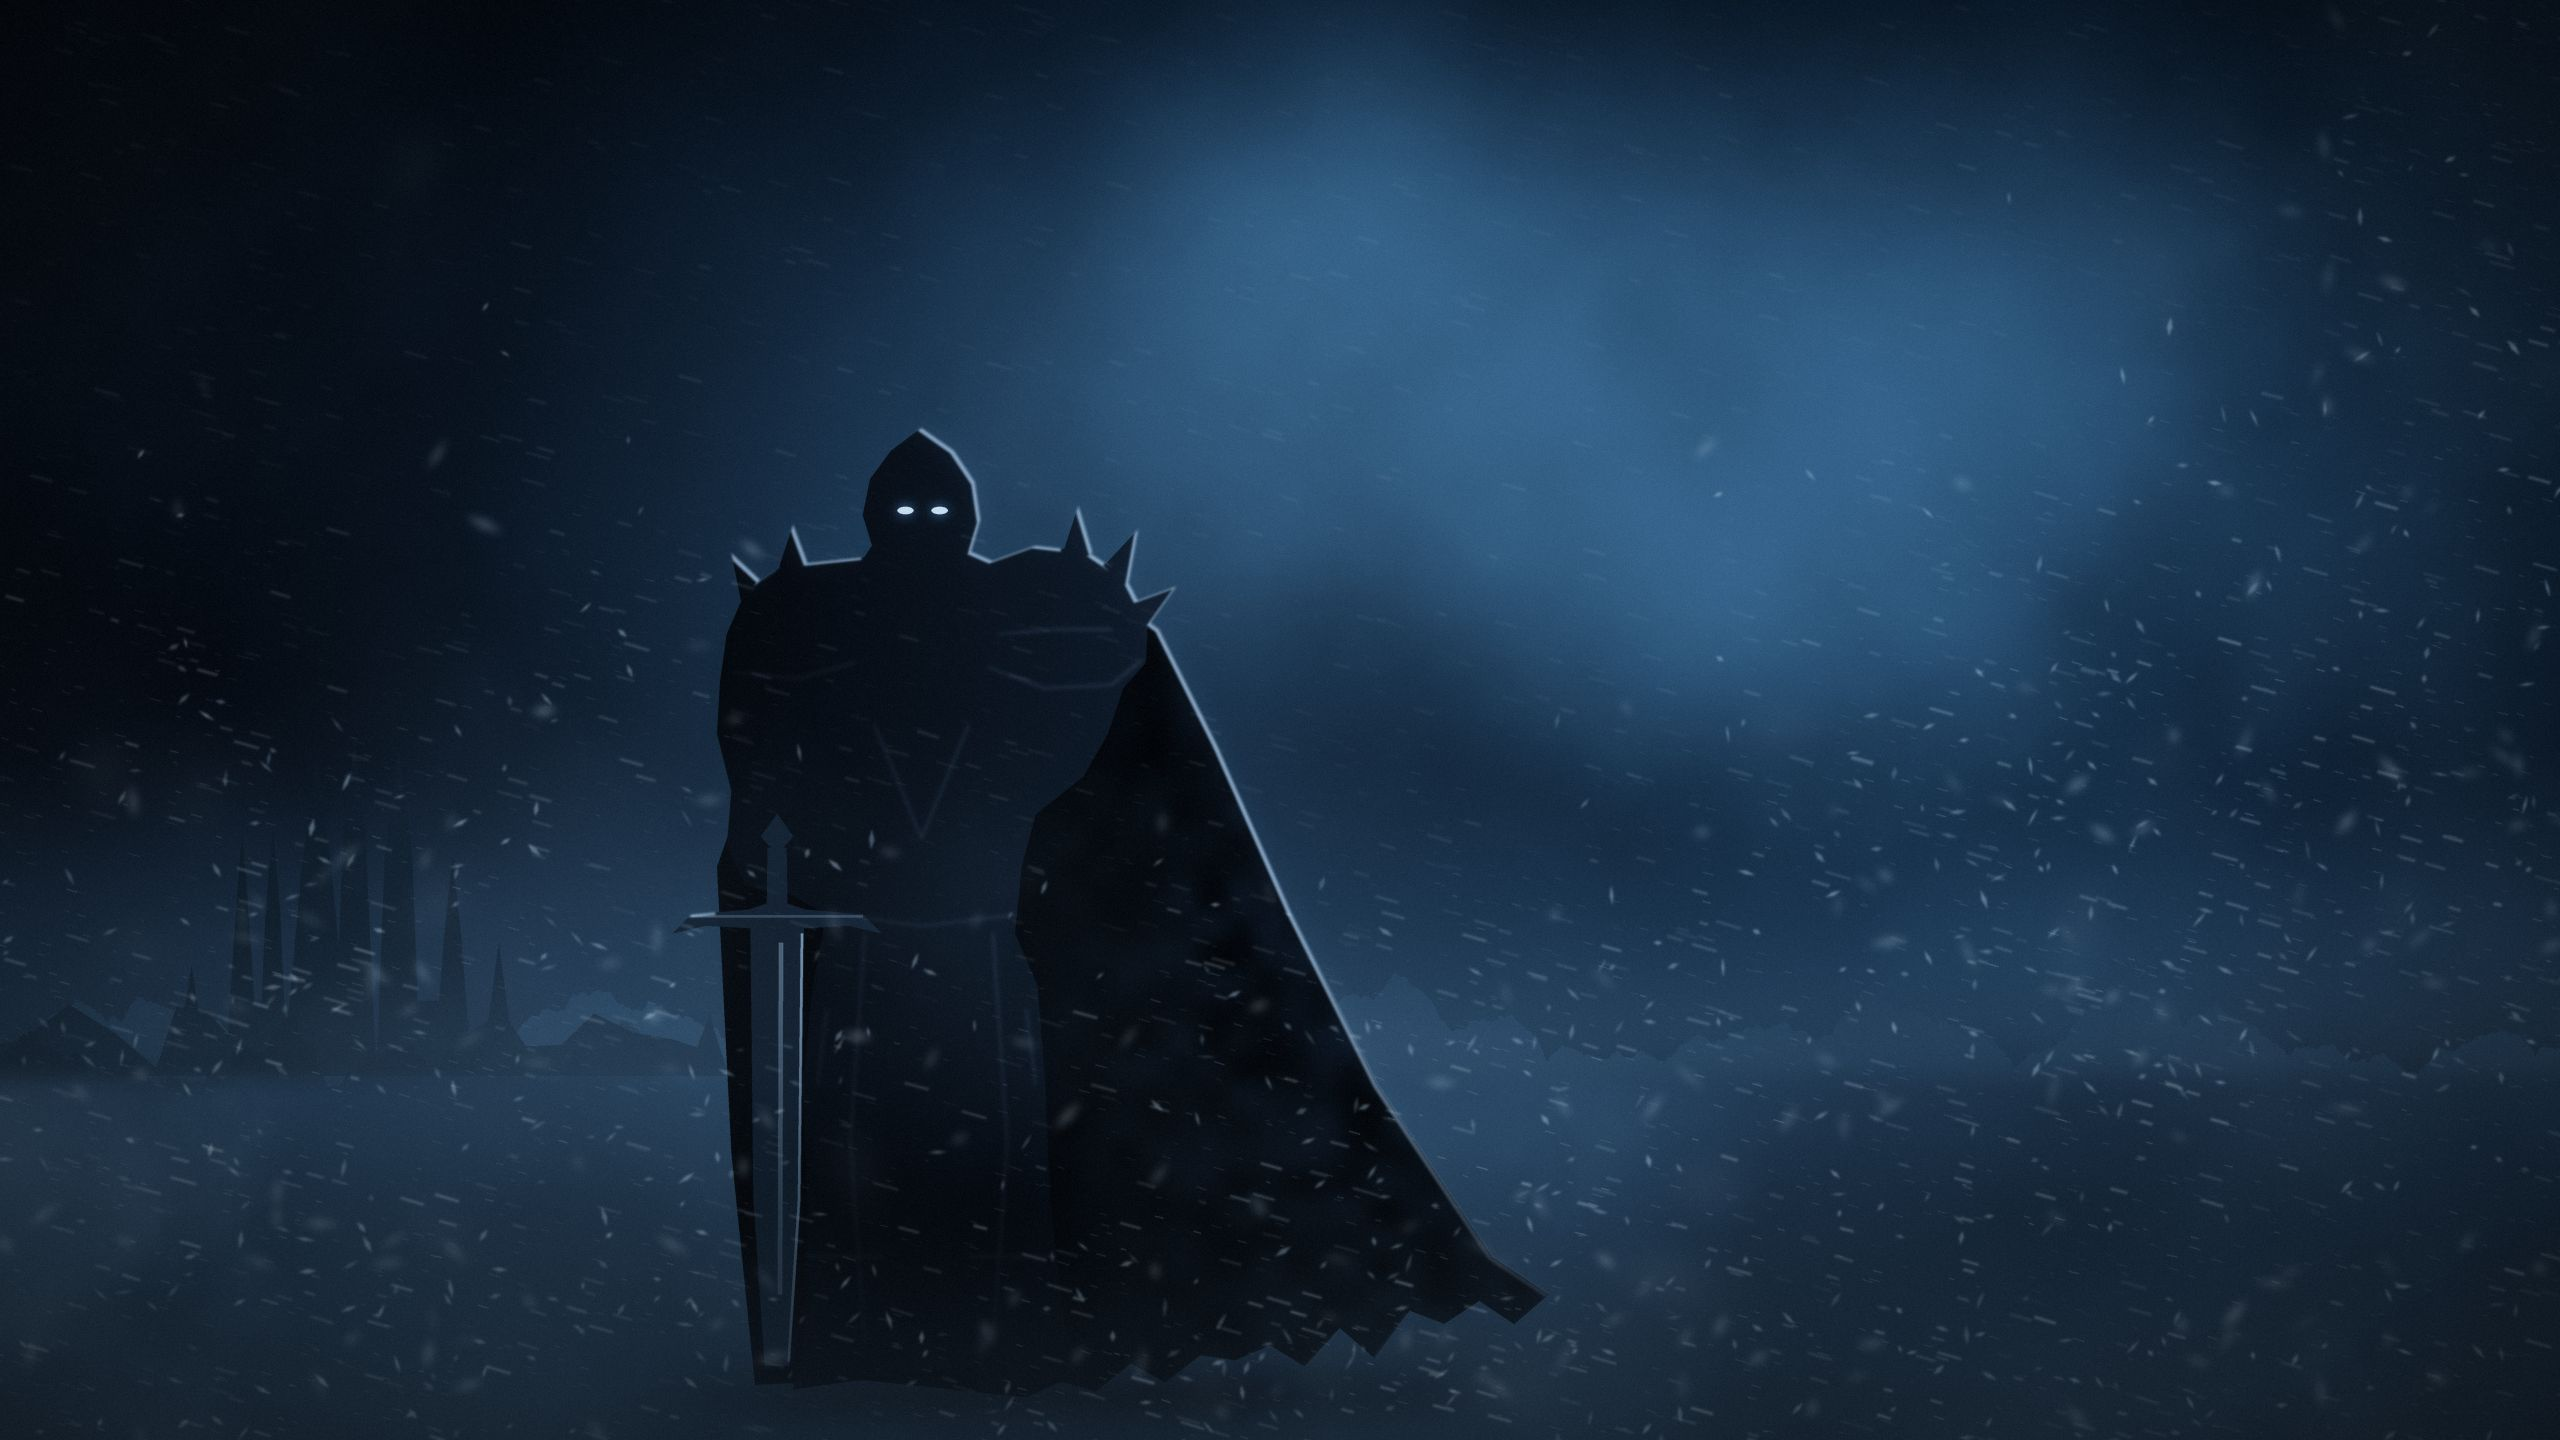
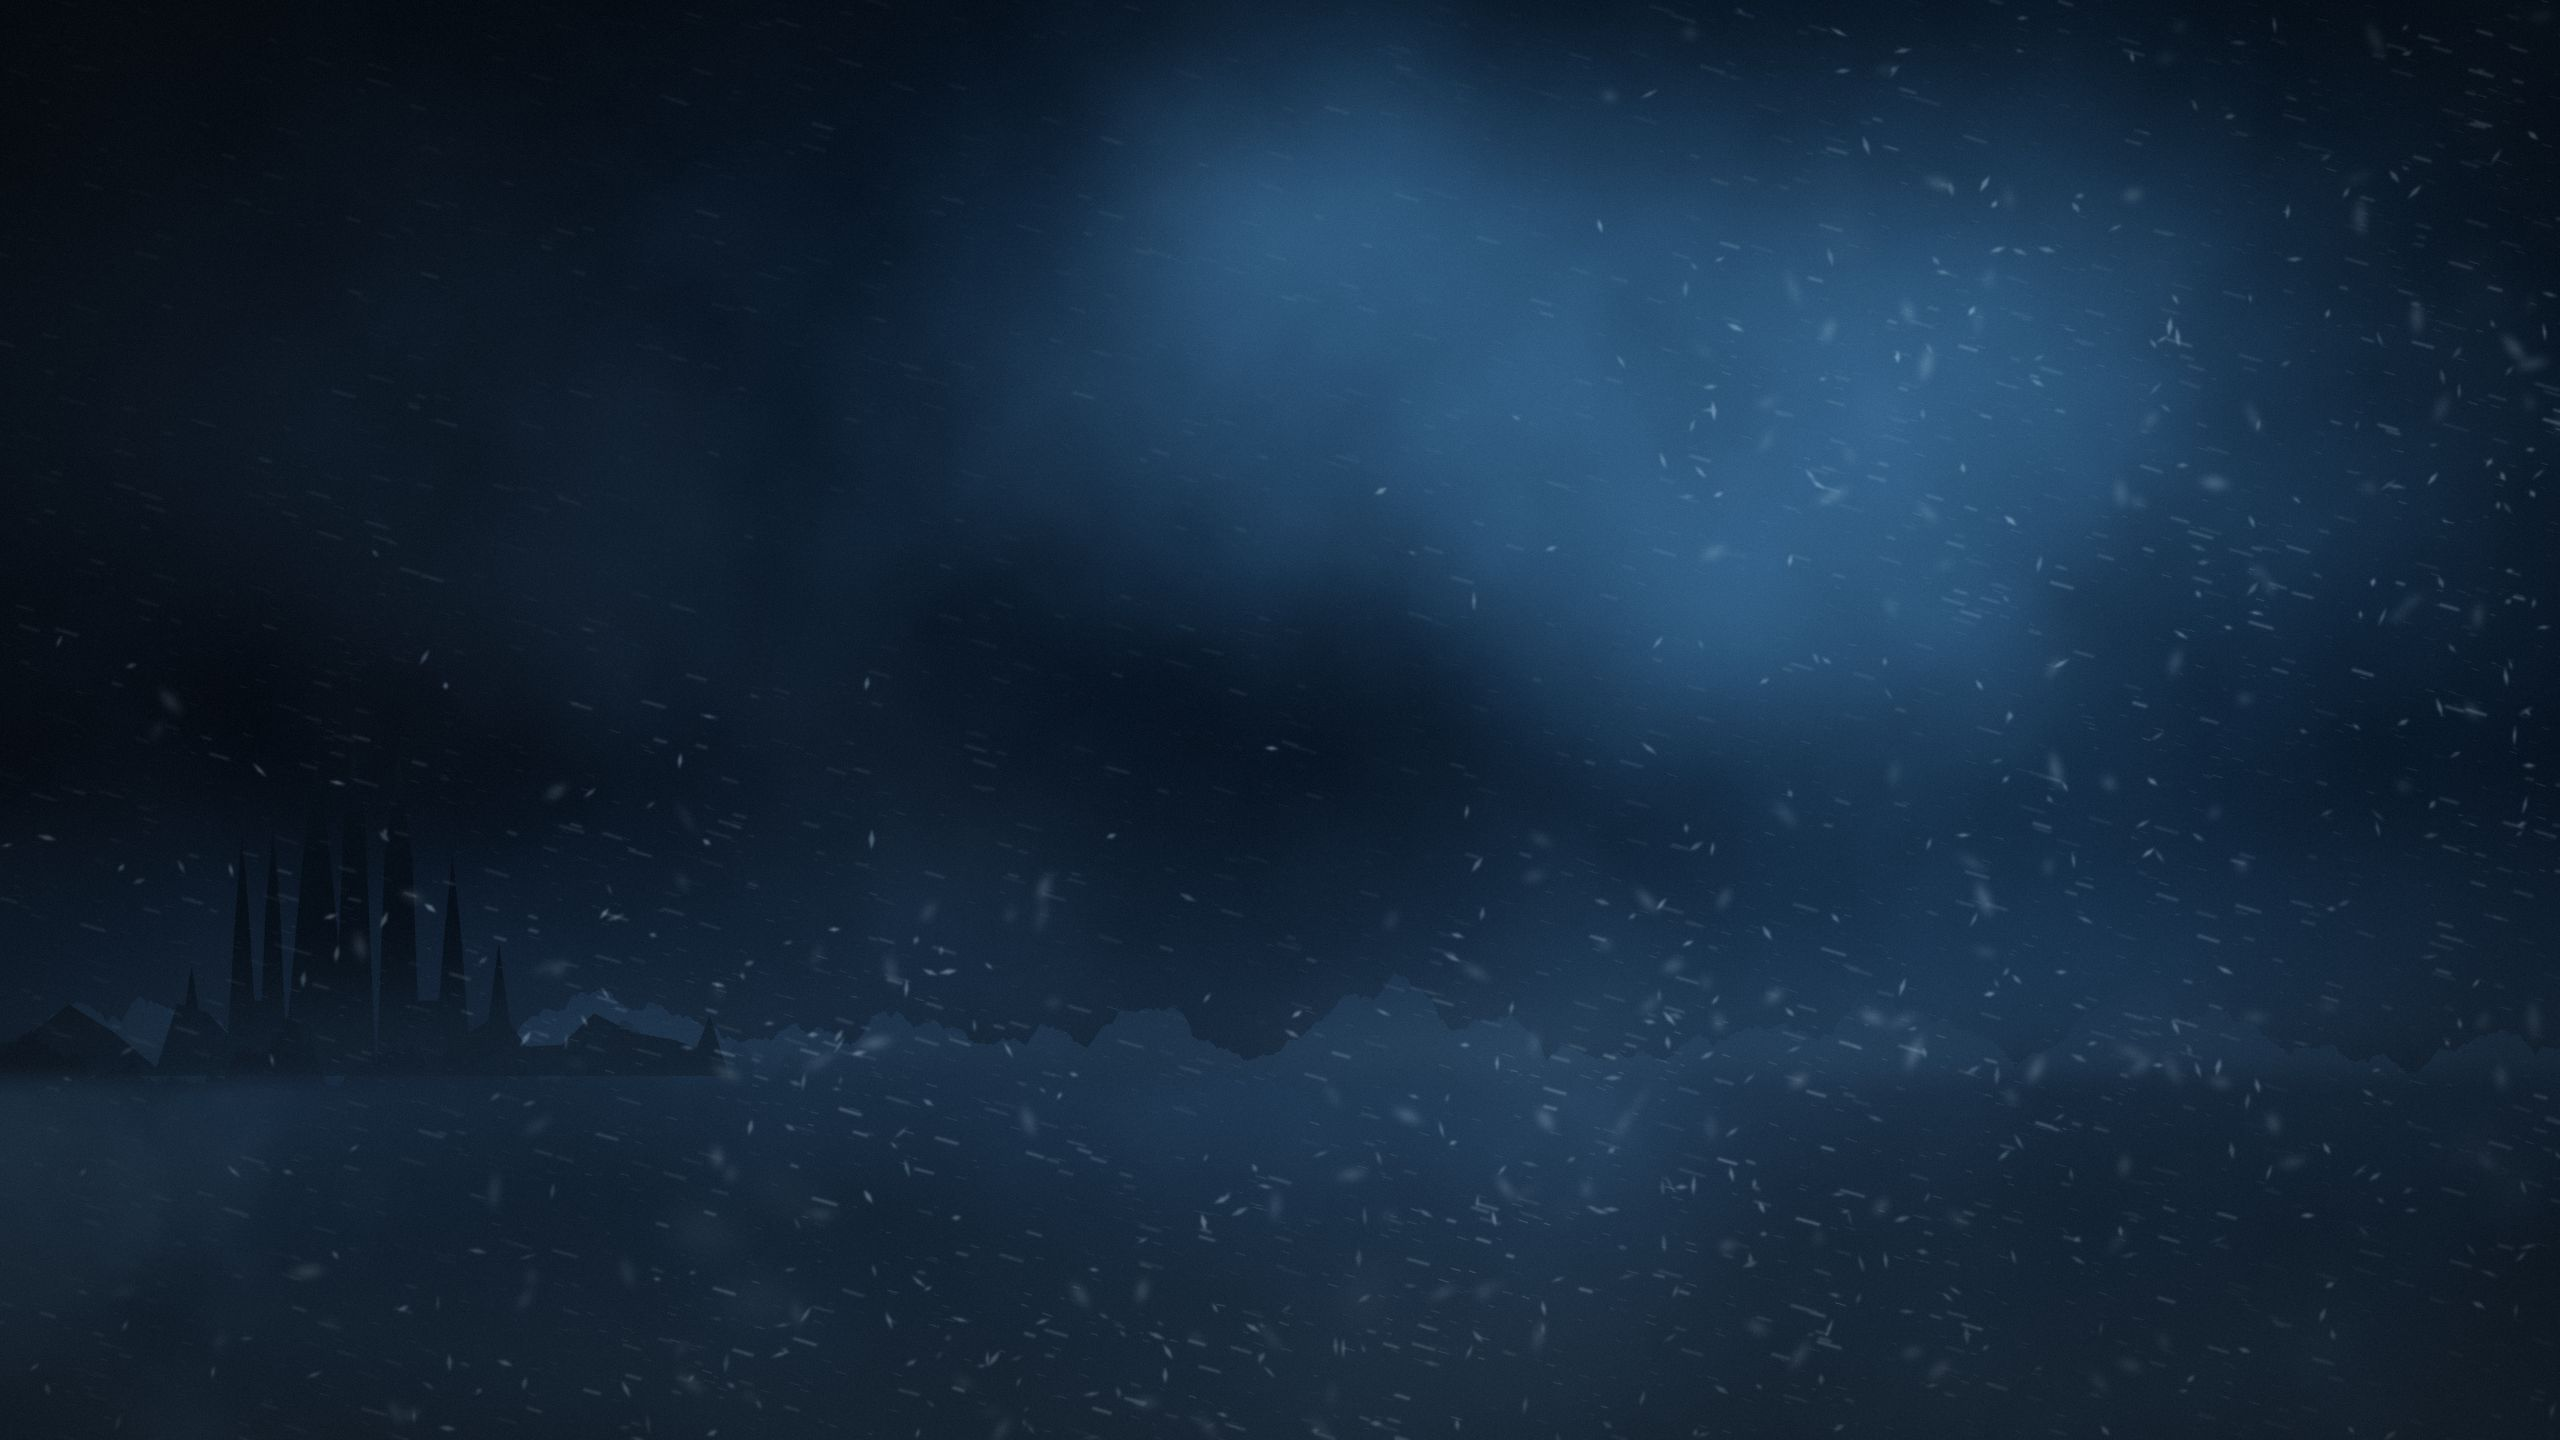
Take the knight out of the built-in background
Just the storm, the plain and the far spires now.

Claude-Session: https://claude.ai/code/session_01SfJk7FDB7gxVCPxJoAGqGz

Changed region(s): [[0.0625, 0.2188, 0.625, 0.9688], [0.1875, 0.4688, 0.2188, 0.5]]

diff --git a/art/background.py b/art/background.py
@@ -1,6 +1,6 @@
 #!/usr/bin/env python3
-"""Paints the site's built-in background: a lone knight in a blizzard on a
-frozen plain, ice spires on the horizon, a cold glow behind the clouds.
+"""Paints the site's built-in background: a blizzard over a frozen plain,
+ice spires on the horizon, a cold glow behind the clouds.
 
 Everything is drawn here from shapes and noise; nothing is traced or copied.
 The result is released under CC0 1.0 (see art/README.md).
@@ -46,13 +46,6 @@ def blur(a, r):
     return np.asarray(im.filter(ImageFilter.GaussianBlur(r)), np.float32) / 255.0
 
 
-def blurf(a, r):
-    """Blur that keeps float precision (in 16-bit steps)."""
-    im = Image.fromarray((np.clip(a, 0, 1) * 65535).astype(np.uint16).astype(np.int32), "I")
-    im = im.convert("F").filter(ImageFilter.GaussianBlur(r))
-    return np.asarray(im, np.float32) / 65535.0
-
-
 def mask(w, h, draw, ss=3):
     """A soft-edged mask: draw(ImageDraw, scale) at ss times the size, then shrink."""
     im = Image.new("L", (w * ss, h * ss), 0)
@@ -76,106 +69,6 @@ def screen(img, m, c):
 def smooth(e0, e1, x):
     t = np.clip((x - e0) / (e1 - e0), 0, 1)
     return t * t * (3 - 2 * t)
-
-
-# ------------------------------------------------------------------ the figure
-# The knight as outlines in figure units: x across from the body's centre
-# line, y from the top of the helm (0) to the feet (1). He stands facing
-# us, both gauntlets on the pommel of a sword planted in the snow, cloak
-# streaming out to the right in the wind.
-BODY = [
-    (0.0, -0.012), (0.034, 0.012), (0.056, 0.045), (0.062, 0.085), (0.052, 0.118),  # hood
-    (0.075, 0.128), (0.12, 0.112), (0.175, 0.118), (0.215, 0.145), (0.238, 0.19),   # near pauldron
-    (0.236, 0.235), (0.212, 0.262), (0.196, 0.31), (0.17, 0.355), (0.12, 0.395),    # near arm
-    (0.105, 0.45), (0.098, 0.52), (0.122, 0.575), (0.13, 0.68),                      # hip, tasset
-    (0.135, 0.8), (0.15, 0.93), (0.172, 0.99), (0.06, 1.0), (0.05, 0.9), (0.04, 0.8),  # near leg
-    (0.0, 0.72), (-0.035, 0.8), (-0.04, 0.9), (-0.03, 0.985), (-0.135, 1.0),         # far leg
-    (-0.12, 0.92), (-0.12, 0.8), (-0.125, 0.68), (-0.115, 0.58),
-    (-0.1, 0.5), (-0.14, 0.478), (-0.185, 0.47), (-0.205, 0.43),                     # hands
-    (-0.2, 0.37), (-0.215, 0.31), (-0.212, 0.255),                                   # far arm
-    (-0.205, 0.205), (-0.185, 0.16), (-0.145, 0.133), (-0.098, 0.128), (-0.06, 0.124),  # far pauldron
-    (-0.052, 0.112), (-0.062, 0.08), (-0.054, 0.042), (-0.032, 0.012),
-]
-SPIKES = [  # base left, tip, base right
-    [(0.15, 0.116), (0.165, 0.07), (0.18, 0.12)],
-    [(0.195, 0.13), (0.228, 0.095), (0.218, 0.15)],
-    [(0.226, 0.17), (0.268, 0.155), (0.236, 0.2)],
-    [(-0.12, 0.13), (-0.135, 0.09), (-0.15, 0.135)],
-    [(-0.17, 0.148), (-0.2, 0.12), (-0.19, 0.17)],
-]
-# Lines of the armour, picked out faintly by the light.
-SEAMS = [
-    [(0.07, 0.24), (0.13, 0.262), (0.2, 0.258), (0.232, 0.232)],   # near pauldron's lower edge
-    [(0.08, 0.205), (0.14, 0.2), (0.2, 0.2)],                      # its ridge
-    [(-0.07, 0.235), (-0.13, 0.252), (-0.2, 0.245)],                # far pauldron
-    [(-0.085, 0.5), (0.0, 0.512), (0.1, 0.5)],                      # belt
-    [(-0.05, 0.3), (0.0, 0.42), (0.05, 0.3)],                       # breastplate keel
-    [(0.11, 0.6), (0.12, 0.68)], [(-0.1, 0.6), (-0.11, 0.68)],       # tassets
-    [(0.05, 0.86), (0.14, 0.86)], [(-0.04, 0.86), (-0.12, 0.86)],    # greaves
-    [(-0.06, 0.52), (-0.075, 0.74), (-0.06, 0.95)], [(0.075, 0.52), (0.09, 0.74), (0.075, 0.95)],  # tabard
-]
-TABARD = [(-0.07, 0.5), (0.08, 0.5), (0.1, 0.74), (0.085, 0.965), (0.0, 0.985), (-0.075, 0.965), (-0.085, 0.74)]
-SX = -0.152
-POMMEL = (SX, 0.418, 0.017)
-GRIP = [(SX - 0.01, 0.43), (SX + 0.01, 0.43), (SX + 0.011, 0.5), (SX - 0.011, 0.5)]
-GUARD = [(SX - 0.11, 0.52), (SX - 0.09, 0.5), (SX - 0.03, 0.495), (SX, 0.485), (SX + 0.03, 0.495),
-         (SX + 0.09, 0.5), (SX + 0.11, 0.52), (SX + 0.075, 0.512), (SX + 0.025, 0.515), (SX, 0.535),
-         (SX - 0.025, 0.515), (SX - 0.075, 0.512)]
-BLADE = [(SX - 0.028, 0.512), (SX + 0.028, 0.512), (SX + 0.025, 0.8), (SX + 0.013, 0.975),
-         (SX - 0.013, 0.975), (SX - 0.025, 0.8)]
-
-
-def cloak(rng):
-    pts = [(-0.11, 0.15), (0.0, 0.13), (0.17, 0.14), (0.25, 0.2), (0.31, 0.32), (0.39, 0.5), (0.48, 0.68), (0.6, 0.86),
-           (0.66, 0.9)]
-    n = 15
-    for i in range(1, n + 1):  # a torn hem, back toward his heels
-        t = i / n
-        x = 0.66 - t * 0.55
-        y = 0.9 + 0.1 * t + (rng.uniform(0.01, 0.045) if i % 2 else -rng.uniform(0, 0.015)) * (1 - 0.5 * t)
-        pts.append((x, y))
-    return pts + [(-0.06, 0.99), (-0.175, 0.995), (-0.2, 0.75), (-0.215, 0.45), (-0.11, 0.15)]
-
-
-def figure_layers(w, h, fx, fy, fh, rng):
-    """Masks for the knight standing with his feet at (fx, fy), fh tall (pixels)."""
-    cape_pts = cloak(rng)
-
-    def at(pts, ss):
-        return [((fx + x * fh) * ss, (fy - fh + y * fh) * ss) for x, y in pts]
-
-    def body(d, ss):
-        d.polygon(at(BODY, ss), fill=255)
-        d.polygon(at(TABARD, ss), fill=255)
-        for p in SPIKES:
-            d.polygon(at(p, ss), fill=255)
-
-    def cape(d, ss):
-        d.polygon(at(cape_pts, ss), fill=255)
-
-    def sword(d, ss):
-        x, y, r = POMMEL
-        d.polygon(at([(x, y - r * 1.4), (x + r, y), (x, y + r * 1.1), (x - r, y)], ss), fill=255)
-        for p in (GRIP, GUARD, BLADE):
-            d.polygon(at(p, ss), fill=255)
-
-    def edge(d, ss):  # the blade's edge and fuller
-        d.line(at([(SX + 0.026, 0.52), (SX + 0.023, 0.8), (SX + 0.012, 0.97)], ss), fill=255, width=max(1, int(0.003 * fh * ss)))
-        d.line(at([(SX + 0.004, 0.53), (SX + 0.003, 0.9)], ss), fill=150, width=max(1, int(0.005 * fh * ss)))
-        d.line(at([(SX - 0.09, 0.502), (SX + 0.09, 0.502)], ss), fill=90, width=max(1, int(0.003 * fh * ss)))
-
-    def seams(d, ss):
-        for p in SEAMS:
-            d.line(at(p, ss), fill=255, width=max(1, int(0.003 * fh * ss)), joint="curve")
-
-    def eyes(d, ss):
-        for ex in (-0.017, 0.019):
-            (px, py), = at([(ex, 0.075)], ss)
-            r = 0.005 * fh * ss
-            d.ellipse([px - r * 1.7, py - r * 0.8, px + r * 1.7, py + r * 0.8], fill=255)
-
-    return {k: mask(w, h, f) for k, f in
-            (("body", body), ("cape", cape), ("sword", sword), ("edge", edge), ("seams", seams), ("eyes", eyes))}
 
 
 # ------------------------------------------------------------------ the land
@@ -268,7 +161,7 @@ def flakes(w, h, rng, count, size, alpha, blur_r, gust):
 
 
 # ------------------------------------------------------------------ painting
-def paint(w, h, seed, fig_x, fig_scale, glow_x, citadel):
+def paint(w, h, seed, glow_x, citadel):
     rng = np.random.default_rng(seed)
     u = np.linspace(0, 1, w, dtype=np.float32)[None, :]
     v = np.linspace(0, 1, h, dtype=np.float32)[:, None]
@@ -313,47 +206,7 @@ def paint(w, h, seed, fig_x, fig_scale, glow_x, citadel):
     img = img * (1 - ground[..., None]) + snowc * ground[..., None]
     img = screen(img, ground * smooth(0.55, 0.85, drifts) * 0.18, col("#6d8fb3"))
 
-    # The knight.
-    fh = fig_scale * h
-    fx, fy = fig_x * w, 0.965 * h
-    m = figure_layers(w, h, fx, fy, fh, rng)
-    # Light breaking through behind his shoulders, so he stands out against it.
-    halo = np.exp(-(((u * w - (fx + 0.12 * fh)) / (0.55 * fh)) ** 2 + ((v * h - (fy - 0.8 * fh)) / (0.5 * fh)) ** 2))
-    img = screen(img, halo * 0.32, col("#4c7fb3"))
-    low = np.exp(-(((u * w - (fx + 0.2 * fh)) / (0.9 * fh)) ** 2 + ((v * h - (fy - 0.3 * fh)) / (0.22 * fh)) ** 2))
-    img = screen(img, low * 0.18, col("#41668c"))
-    # A soft contact shadow under him.
-    shadow = blur(mask(w, h, lambda d, ss: d.ellipse([(fx - 0.25 * fh) * ss, (fy - 0.02 * fh) * ss,
-                                                      (fx + 0.62 * fh) * ss, (fy + 0.03 * fh) * ss], fill=255)), fh * 0.02)
-    img = over(img, shadow * 0.7, col("#03060b"))
-    sil = np.clip(m["body"] + m["cape"] + m["sword"], 0, 1)
-    up = smooth(0.0, 0.55, (fy - v * h) / fh)  # 0 at his feet, 1 from the waist up
-    # Inside the silhouette: near black, a faint cold sheen on the armour
-    # toward the light, folds in the cloak.
-    folds = noise(rng, w, h, fh * 0.03)
-    folds = np.asarray(Image.fromarray((folds * 255).astype(np.uint8)).filter(
-        ImageFilter.BoxBlur(max(1, int(fh * 0.006)))), np.float32) / 255.0
-    toward = np.clip((u * w - (fx - 0.25 * fh)) / (0.5 * fh), 0, 1)
-    armour = col("#04080e") + col("#1c3047") * (0.45 * toward * up)[..., None]
-    cloakc = col("#03060a") + col("#122133") * (0.75 * folds * smooth(-0.05, 0.6, (u * w - fx) / fh) * (0.4 + 0.6 * up))[..., None]
-    img = over(img, m["cape"], cloakc)
-    img = over(img, m["body"], armour)
-    img = screen(img, blur(m["seams"], fh * 0.002) * (0.05 + 0.16 * toward * up), col("#7fa9d6"))
-    steel = col("#070d15") + col("#22384f") * (0.25 + 0.45 * toward * up)[..., None]
-    img = over(img, m["sword"], steel)
-    img = screen(img, m["edge"] * (0.2 + 0.45 * up), col("#a9cff5"))
-    # Rim light: a thin line where his edges face the glow (up and to the right).
-    lx, ly = 0.004 * fh, -0.003 * fh
-    shifted = np.asarray(Image.fromarray((sil * 255).astype(np.uint8)).transform(
-        (w, h), Image.AFFINE, (1, 0, lx, 0, 1, ly), Image.BILINEAR), np.float32) / 255.0
-    rim = np.clip(sil - shifted, 0, 1) * (0.15 + 0.85 * up)
-    img = screen(img, blur(rim, fh * 0.001) * 0.75, col("#a7cdf5"))
-    img = screen(img, blur(rim, fh * 0.01) * 0.3, col("#4f86c0"))
-    # A cold light in the helm, faint, with a bloom.
-    img = screen(img, m["eyes"] * 0.9, col("#d6eeff"))
-    img = screen(img, blur(m["eyes"], fh * 0.006) * 0.8, col("#5fa8ff"))
-    img = screen(img, blur(m["eyes"], fh * 0.025) * 0.45, col("#2c6fb8"))
-    # Blown snow veiling his feet and the hem of the cloak.
+    # Snow blown low across the field.
     veil = smooth(0.82, 1.0, v) * (0.4 + 0.6 * fbm(rng, w, h, big / 8, octaves=5))
     img = screen(img, veil * 0.35, col("#4d6f92"))
 
@@ -387,9 +240,9 @@ def main():
     ap.add_argument("--seed", type=int, default=3)
     ap.add_argument("--out", default=OUT)
     a = ap.parse_args()
-    wide = paint(2560, 1440, a.seed, fig_x=0.36, fig_scale=0.66, glow_x=0.62, citadel=(0.07, 0.2))
+    wide = paint(2560, 1440, a.seed, glow_x=0.62, citadel=(0.07, 0.2))
     wide.save(os.path.join(a.out, "background.jpg"), quality=80, optimize=True, progressive=True, subsampling="4:2:0")
-    tall = paint(1080, 1920, a.seed, fig_x=0.42, fig_scale=0.42, glow_x=0.65, citadel=(0.04, 0.3))
+    tall = paint(1080, 1920, a.seed, glow_x=0.65, citadel=(0.04, 0.3))
     tall.save(os.path.join(a.out, "background-phone.jpg"), quality=78, optimize=True, progressive=True, subsampling="4:2:0")
 
 

diff --git a/theme/README.md b/theme/README.md
@@ -4,7 +4,7 @@ The top of the page (the part behind the realm's name and the sign-up
 form) uses files from your theme folder. Drop files in and the site picks
 them up within a few seconds; there's no need to restart anything. Every
 file is optional: with no picture of your own, the top of the page shows
-the built-in one, a lone knight in a blizzard on a frozen plain (made by
+the built-in one, a blizzard over a frozen plain (made by
 [`art/background.py`](../art/background.py), free to use under CC0).
 
 If you run the site with `docker compose`, the theme folder is this one.

diff --git a/art/README.md b/art/README.md
@@ -1,9 +1,8 @@
 # The built-in background
 
 `background.py` paints the picture the top of the page shows when the
-theme folder has no `background.jpg` of its own: a lone knight in a
-blizzard on a frozen plain, ice spires on the horizon and a cold glow
-behind the clouds.
+theme folder has no `background.jpg` of its own: a blizzard over a frozen
+plain, ice spires on the horizon and a cold glow behind the clouds.
 
 It's drawn entirely by the script, from polygons and noise: nothing is
 traced, copied or taken from a game, and no outside images are used. The
